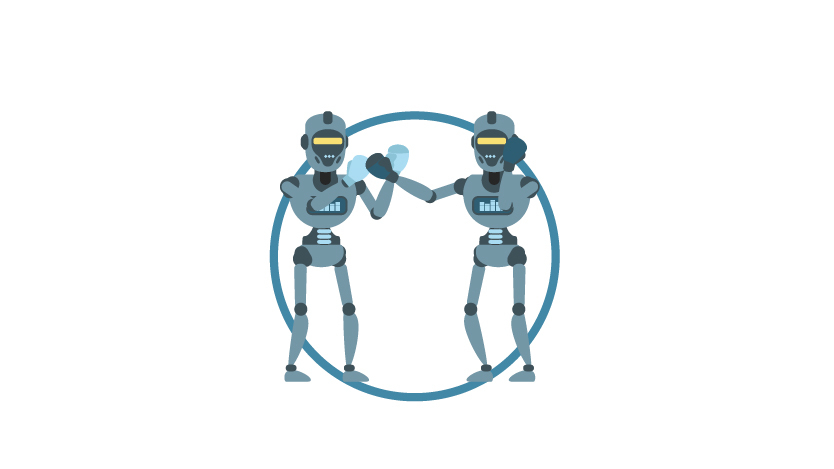
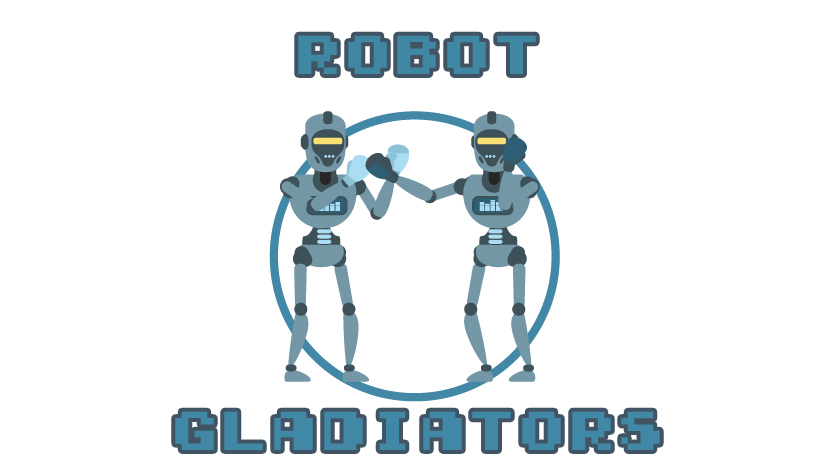
added project names

Changed region(s): [[0.1871, 0.8657, 0.8106, 0.9851], [0.3429, 0.0597, 0.6547, 0.1791]]

diff --git a/index.html b/index.html
@@ -66,12 +66,29 @@
     <div class="step">
       <h3>Work</h3>
       <div class="step-info">
-        <div class="step-img">
-          <img src="./assets/images/step-2.svg" alt="" />
-        </div>
         <div class="step-text">
-          <h4>Consult with One of Our Trainers.</h4>
-          <p>Are you here to build muscle, lose weight, or just feel good?</p>
+          <div class="project-titles">
+            <div class="run-buddy">
+              <h4>
+              Run Buddy
+              </h4>
+            </div>
+          </div>
+          <div class="project-titles">
+            <div class="robot-gladiators">
+              <h4>
+              Robot Gladiators
+              </h4>
+            </div>
+          </div>
+          <div class="project-titles">
+            <div class="code-frefactor">
+              <h4>
+              Horiseon Code Refactor
+              </h4>
+            </div>
+          </div>
+
         </div>
       </div>
     </div>
@@ -97,42 +114,6 @@
     </div>
   </section>
 
-
-  <!-- "reach out" section -->
-  <section id="reach-out" class="contact">
-    <h2 class="section-title secondary-border">Reach Out</h2>
-    <div class="contact-info">
-      <div>
-        <h3>Run Buddy</h3>
-        <p>
-          Any questions or concerns before signing up?
-          <br />
-          Let us know and we'll be happy to talk to you!
-        </p>
-        <address>
-          55 Main Street <br />
-          Some Town, Ca <br />
-          12345 <br />
-          P: <a href="tel:555.786.2839">555.RUN.BUDZ (555.786.2839)</a><br />
-          E: <a href="mailto://jonzee1914@gmail.com">jonzee1914@gmail.com</a>
-        </address>
-      </div>
-      <div class="contact-form">
-        <h3>Contact Us</h3>
-        <form>
-          <label for="contact-name">Your Name</label>
-          <input type="text" id="contact-name" placeholder="Your Name" />
-          <label for="contact-message">Message</label>
-          <textarea id="contact-message" placeholder="Message"></textarea>
-          <button type="submit">Submit</button>
-        </form>
-      </div>
-      <iframe
-        src="https://www.google.com/maps/embed?pb=!1m14!1m12!1m3!1d12182.30520634488!2d-74.0652613!3d40.2407219!2m3!1f0!2f0!3f0!3m2!1i1024!2i768!4f13.1!5e0!3m2!1sen!2sus!4v1561060983193!5m2!1sen!2sus"
-        frameborder="0" style="border:0" allowfullscreen>
-      </iframe>
-    </div>
-  </section>
 
   <!-- footer -->
   <footer>

diff --git a/assets/css/style.css b/assets/css/style.css
@@ -242,8 +242,14 @@ section {
     font-size: 26px;
     line-height: 1.5;
     color: var(--secondary-color);
+    border-radius:  5px 20px 5px;
+    background-color: var(--primary-color);
+    padding: 5px;
 }
- 
+.run-buddy {
+
+    flex-grow: 2;
+}
 .step {
     margin: 50px auto;
     padding-bottom: 50px;
@@ -261,7 +267,7 @@ section {
 }
 
 .welcome img {
-    max-width: 50%;
+    max-width: 33%;
 
 }
 
@@ -502,12 +508,12 @@ section {
         justify-content: center;
     }
 
-    .step-img {
+    /* .step-img {
         flex: 0 32%;
         margin-right: 0;
         margin-top: 15px;
         margin-bottom: 15px;
-    }
+    } */
 
     .step-text {
         flex: 100%;  
